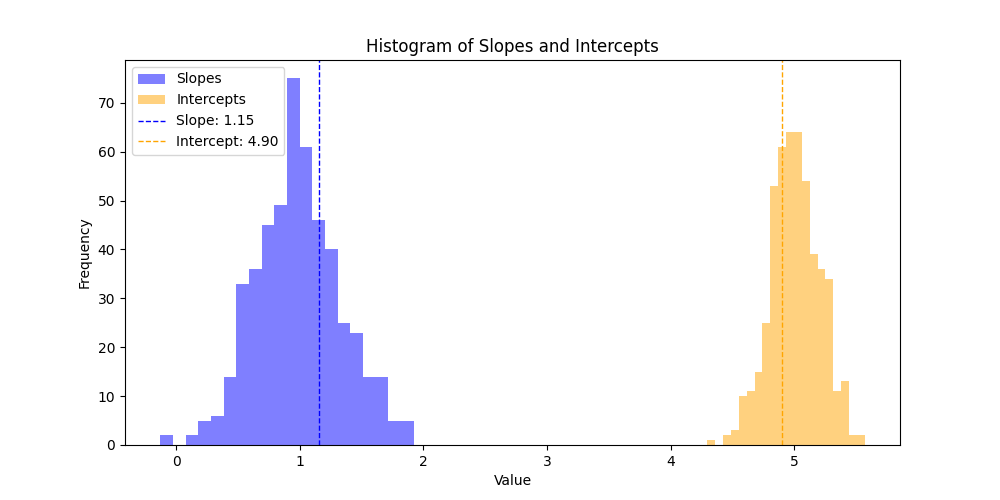
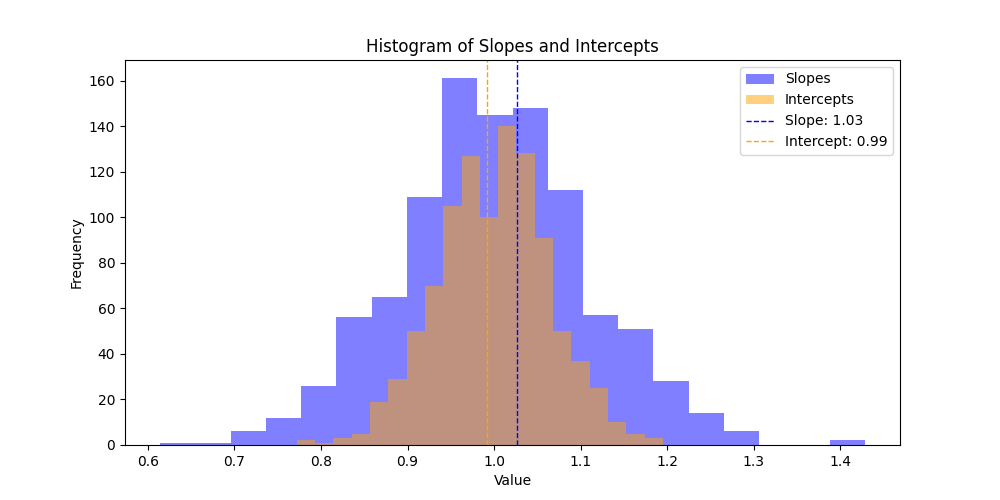
last miniute code correction

diff --git a/app.py b/app.py
@@ -17,7 +17,7 @@ def generate_plots(N, mu, sigma2, S):
     # Hint: Use numpy's random's functions to generate values for X and Y
     X = np.random.random(N)
     X_2d = X.reshape(-1, 1)
-    Y = X + np.random.normal(mu, sigma2, N)
+    Y = X + np.random.normal(mu, np.sqrt(sigma2), N)
 
     # TODO 2: Fit a linear regression model to X and Y
     # Hint: Use Scikit Learn
@@ -60,7 +60,7 @@ def generate_plots(N, mu, sigma2, S):
         X_sim_2d = X_sim.reshape(-1 , 1)
 
         # TODO: Generate Y values with normal additive error (mean mu, variance sigma^2)
-        Y_sim = X_sim + np.random.normal(mu, sigma2, N) 
+        Y_sim = X_sim + np.random.normal(mu, np.sqrt(sigma2), N) 
 
         # TODO: Fit a linear regression model to X_sim and Y_sim
         sim_model = LinearRegression().fit(X_sim_2d, Y_sim)  
